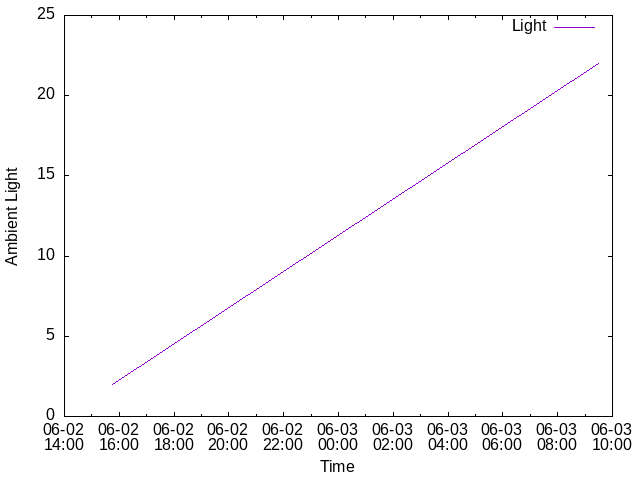
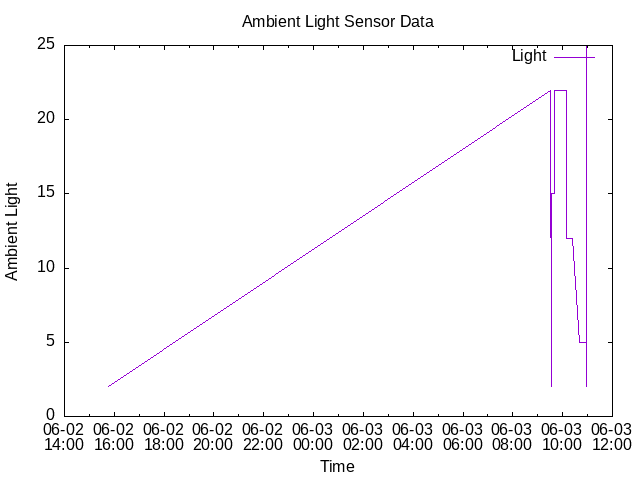
Plots again again

diff --git a/Bash_Files/Logging/Plots/Log.html b/Bash_Files/Logging/Plots/Log.html
@@ -1,0 +1,17 @@
+<!DOCTYPE html PUBLIC "-//W3C//DTD XHTML 1.0 Strict//EN"
+"http://www.w3.org/TR/xhtml1/DTD/xhtml1-strict.dtd">
+<html xmlns="http://www.w3.org/1999/xhtml">
+<head>
+<title></title>
+<meta name="generator" content="HTML::TextToHTML v2.53"/>
+</head>
+<body>
+<table summary="">
+<tr><td>Date</td><td>Time</td><td>Moisture Level</td><td>Ambient Light</td><td>Pump Active</td><td>Pump Water Alarm</td><td>Plant Water Alarm
+</td></tr><tr><td>03/06/2023</td><td>10:57:12</td><td>3</td><td>5</td><td>72</td><td>3</td><td>4
+</td></tr><tr><td>03/06/2023</td><td>10:57:23</td><td>14</td><td>25</td><td>73</td><td>23</td><td>99
+</td></tr><tr><td>03/06/2023</td><td>10:57:35</td><td>2</td><td>2</td><td>55</td><td>4</td><td>2</td></tr>
+</table>
+
+</body>
+</html>
